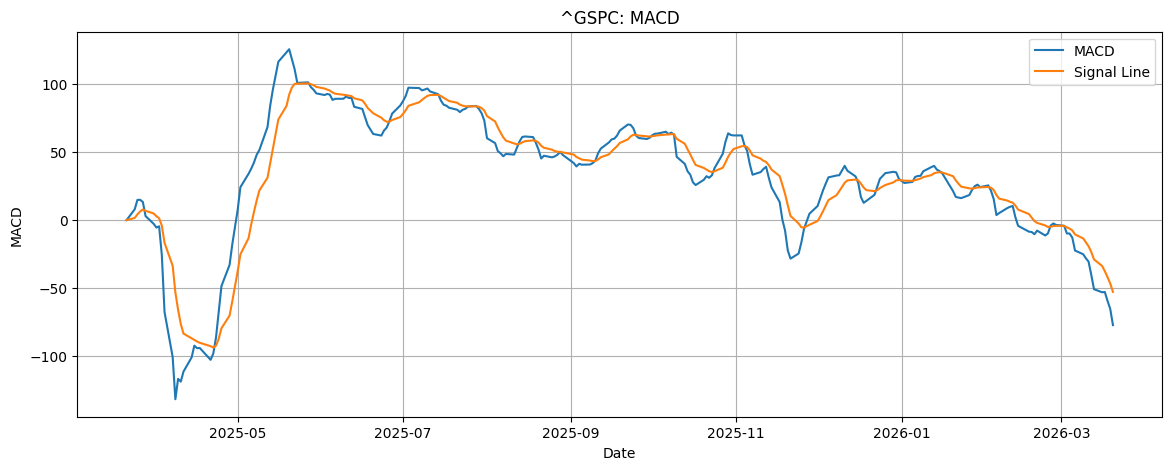
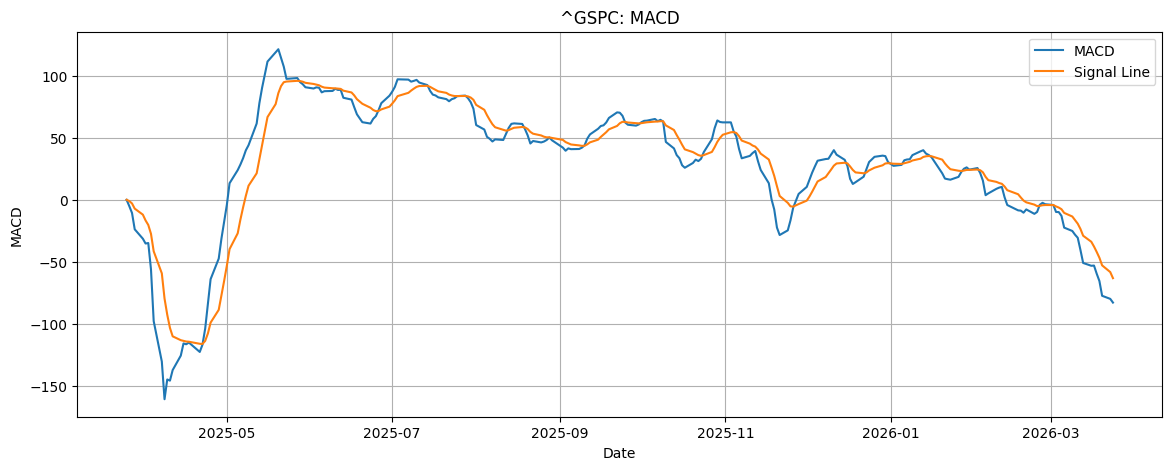
update financial posts 1 and 2

diff --git a/service-worker.js b/service-worker.js
@@ -2,7 +2,7 @@
 
 // https://tosbourn.com/adding-service-worker-to-jekyll/
 
-const offlineCache = 'offline-2026-03-24-08-31'; // The cache key, you can override this to manually clear the cache
+const offlineCache = 'offline-2026-03-25-00-18'; // The cache key, you can override this to manually clear the cache
 const offlinePage = '/offline/'; // Where your offline page lives
 const homePage = '/'; // A key page you want cached
 const about = '/about/'; // Another key page to cache

diff --git a/_posts/2026-03-24-sp500-financial-analysis-I.md b/_posts/2026-03-24-sp500-financial-analysis-I.md
@@ -1,13 +1,13 @@
 ---
 layout: post
-title:  "S&P 500 (^GSPC) - Financial Analysis I"
+title:  "S&P 500 (^GSPC) - Financial Analysis - I"
 tags: Financial ETF Stocks
 date:   2026-03-24 00:00:00 +0000
 permalink: /:year/:month/:day/:title.html
 excerpt_separator: <!--more-->
 ---
 
-![S&P 500 (^GSPC) - Financial Analysis](/assets/images/bollinger_bands_sp500.png){:height="100%" width="100%"}
+![S&P 500 (^GSPC) - Financial Analysis](/assets/images/sma_bollinger_sp500.png){:height="100%" width="100%"}
 
 S&P 500 index (^GSPC) along with moving averages and Bollinger Bands, which are commonly used to understand trend and volatility.
 
@@ -15,93 +15,16 @@ S&P 500 index (^GSPC) along with moving averages and Bollinger Bands, which are 
 
 Financial Information about S&P 500 (Standard and Poor's 500).
 
-## 📈 1. Price (Blue Line)
+### Price & Moving Averages with Bollinger Bands
 
--   This is the **daily closing price** of the S&P 500.
--   You can see:
-    -   A **sharp dip early on** (around April)
-    -   A **steady uptrend** through mid-to-late year
-    -   A **flattening / slight pullback** near the end
+This is your **trend and volatility** chart.
 
-👉 Think of this as the “ground truth” of the market.
-
-----------
-
-## 📊 2. Moving Averages
-
-### 🟠 SMA (20) — Short-term trend
-
--   Reacts **quickly** to price changes
--   Tracks recent momentum
-
-### 🟢 SMA (50) — Medium-term trend
-
--   Smoother, slower
--   Shows the broader trend direction
-
-### How to read them:
-
--   When **price > SMA(20) > SMA(50)** → bullish trend (seen for most of the chart)
--   When price dips below SMA(20) → short-term weakness
--   Near the end, price starts **falling toward/below SMA(20)** → possible slowdown
-
-----------
-
-## 📉 3. Bollinger Bands (Volatility)
-
--   **Red dashed** = Upper band
--   **Purple dashed** = Lower band
--   Based on SMA(20) ± standard deviation
-
-### What they mean:
-
--   Bands **expand** → high volatility
--   Bands **contract** → low volatility
--   Price near:
-    -   **Upper band** → possibly overbought
-    -   **Lower band** → possibly oversold
-
-----------
-
-## 🔍 What’s happening in THIS chart
-
-### Early period (April–May)
-
--   Big drop → price touches **lower band**
--   Bands widen → **high volatility / panic selling**
-
-### Mid period (June–November)
-
--   Strong **uptrend**
--   Price mostly stays between SMA(20) and upper band
--   Bands moderately wide → steady bullish momentum
-
-### Late period (Dec–Feb)
-
--   Price often touches **upper band**
--   Suggests **overbought conditions**, but trend still strong
-
-### Final section (Feb–March)
-
--   Price **pulls back sharply**
--   Moves toward lower band
--   Bands widen again → volatility increasing
-
-----------
-
-## 🧠 Key Insights
-
--   ✅ **Overall trend**: Bullish for most of the period
--   ⚠ **Recent signal**: Weakness / correction starting
--   🔥 **Volatility spikes**: At major turning points (early drop + recent pullback)
--   📉 **Upper band touches** earlier → market was stretched
-
-----------
-
-## ⚡ Simple interpretation (trader mindset)
-
--   When price **rides the upper band** → strong trend, not necessarily a sell
--   When price **breaks below SMA(20)** → early warning
--   When price **approaches lower band after a rally** → correction or trend shift
+- **SMA (20 & 50):** These smooth out price action. When the shorter SMA (20) is above the longer SMA (50), it generally indicates a bullish trend. Notice how the price often uses these lines as "support" during an uptrend.
+    
+- **Bollinger Bands:** These measure volatility.
+    
+    - **The "Squeeze":** When the red and purple dashed lines get close together, volatility is low, often preceding a big move.
+        
+    - **Overextension:** When the blue price line touches or breaks the Upper Band, the asset is considered "stretched" or overbought in the short term. Conversely, touching the Lower Band suggests it might be oversold.
 
 

diff --git a/_posts/2026-03-25-sp500-financial-analysis-II.md b/_posts/2026-03-25-sp500-financial-analysis-II.md
@@ -15,117 +15,12 @@ MACD (Moving Average Convergence Divergence) for the S&P 500 index (^GSPC), whic
 
 Financial Information about S&P 500 (Standard and Poor's 500).
 
-## 📊 1. What the lines mean
+### MACD (Moving Average Convergence Divergence)
 
-### 🔵 MACD Line
+This tells you about **trend strength and direction changes**.
 
--   The difference between short-term and long-term momentum (typically 12-day EMA − 26-day EMA)
--   Reacts **quickly** to market changes
-
-### 🟠 Signal Line
-
--   A smoothed version of the MACD (usually 9-day EMA of MACD)
--   Used to generate **buy/sell signals**
-
-----------
-
-## 🔁 2. Key Signals to Watch
-
-### ✅ Bullish signal
-
--   When **MACD crosses ABOVE the signal line**
--   Suggests upward momentum is building
-
-### ⚠ Bearish signal
-
--   When **MACD crosses BELOW the signal line**
--   Suggests downward momentum is increasing
-
-### ➕ Above zero
-
--   Market has **overall bullish momentum**
-
-### ➖ Below zero
-
--   Market has **overall bearish momentum**
-
-----------
-
-## 🔍 What’s happening in YOUR chart
-
-### Early period (April–May)
-
--   MACD drops **deeply negative (~ -120)**
--   Strong bearish momentum (matches the sharp drop in your price chart)
--   Then a **bullish crossover** → start of recovery
-
-----------
-
-### Strong uptrend (May–July)
-
--   MACD rises sharply **above zero (peaks ~120)**
--   Stays mostly above signal line
--   Confirms a **powerful bullish trend**
-
-----------
-
-### Slowing momentum (Aug–Oct)
-
--   MACD gradually declines
--   Still positive, but:
-    -   Lower highs → **momentum weakening**
--   Early warning that the rally is cooling
-
-----------
-
-### Choppy period (Nov–Jan)
-
--   Multiple crossovers (MACD ↔ signal)
--   Momentum is **uncertain / sideways**
--   You see a **sharp dip below zero in Nov**, then recovery
-
-----------
-
-### Recent trend (Feb–March)
-
--   MACD falls **below zero again**
--   Ends with a **strong downward move (~ -80)**
--   MACD clearly **below signal line**
-
-👉 This is a **bearish momentum signal**
-
-----------
-
-## 🧠 Key Insights
-
--   📈 The **big rally** was confirmed by strong positive MACD
--   ⚠ Momentum started weakening **before price peaked**
--   🔄 Sideways phase showed **indecision**
--   📉 Now: **clear bearish momentum is building**
-
-----------
-
-## ⚡ How this connects to your previous chart
-
-From your **Bollinger Bands + SMA chart**:
-
--   Price recently **pulled back sharply**
--   Now MACD confirms:
-    -   ❗ This is not just noise — **momentum is actually turning bearish**
-
-----------
-
-## ⚡ Simple trader interpretation
-
--   When MACD:
-    -   **Rises above 0** → bullish environment
-    -   **Falls below 0** → bearish environment
--   When MACD crosses signal:
-    -   Up → possible **buy**
-    -   Down → possible **sell**
-
-👉 Right now (end of chart):
-
--   MACD < 0
--   MACD < Signal  
-    ➡ **Downtrend momentum is active**
+-   **Crossovers:** When the blue MACD line crosses _above_ the orange Signal Line, it’s a bullish signal. When it crosses _below_, it’s bearish.
+    
+-   **Zero Line:** When the MACD is above zero, the short-term momentum is stronger than the long-term momentum (bullish).
+    
+-   **The Gap:** The distance between the two lines shows the strength of the trend. A widening gap means the trend is accelerating.
